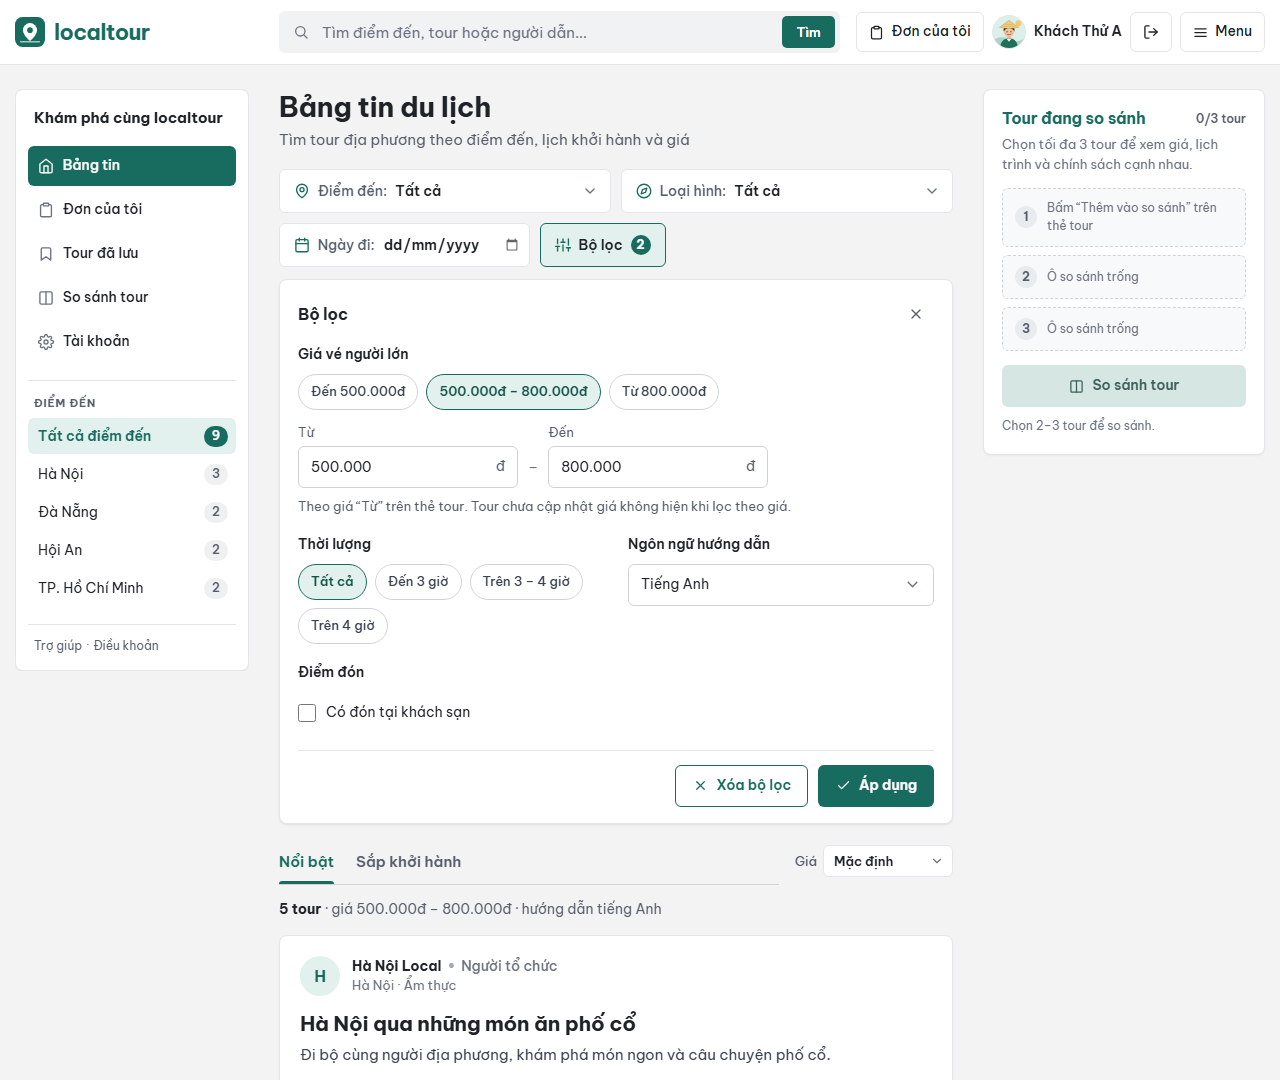
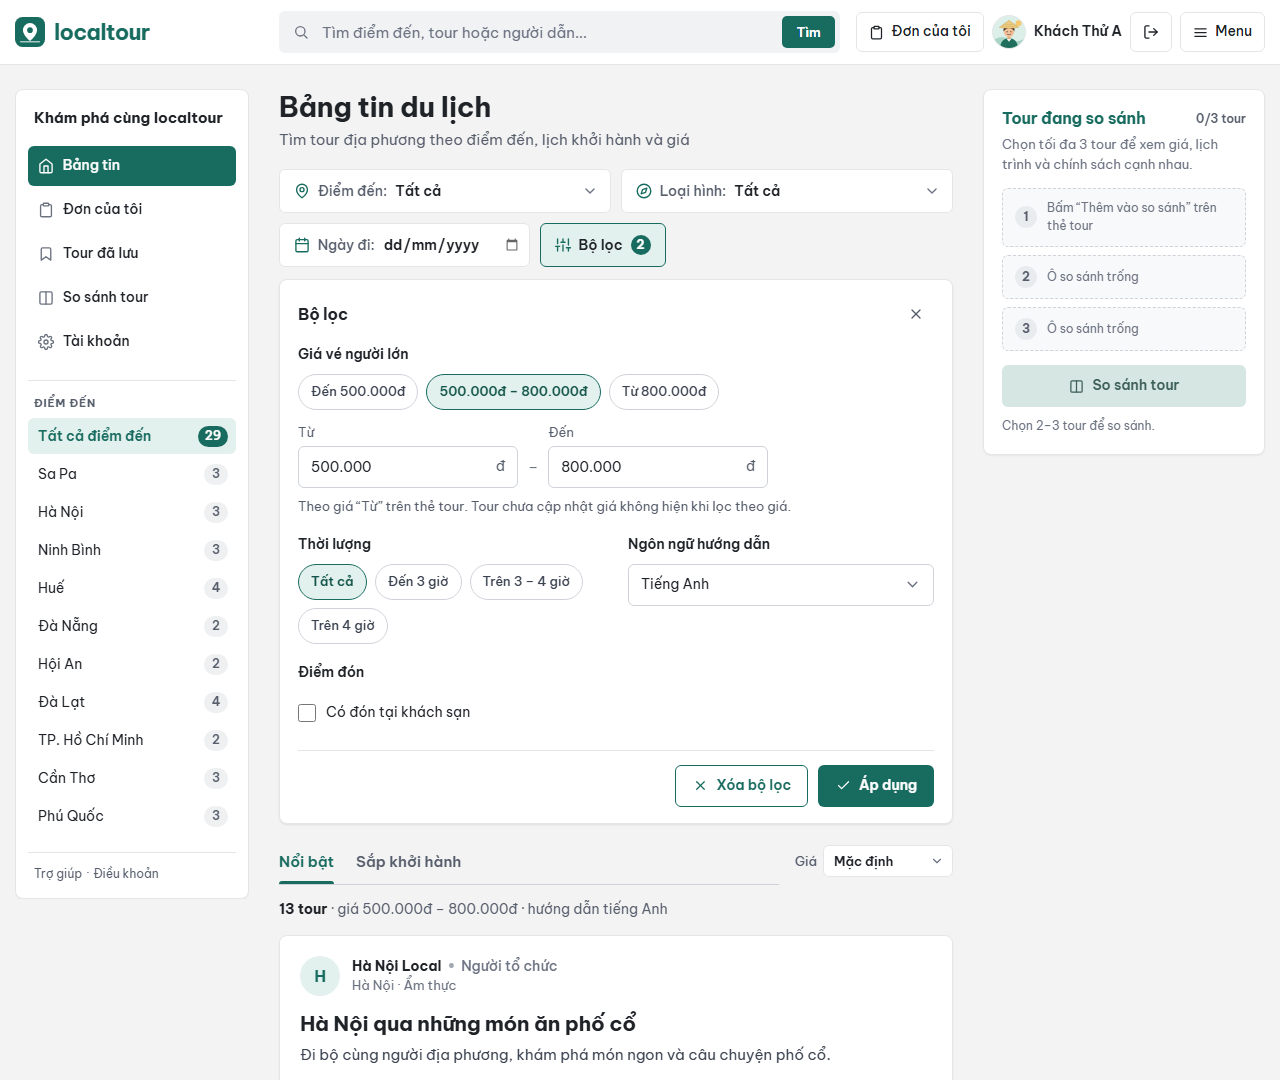
6.18: User Guide: các ô hồ sơ mới ở trang Tài khoản, ảnh chụp với 29 tour

diff --git a/docs/sprint6/03-huong-dan-su-dung.md b/docs/sprint6/03-huong-dan-su-dung.md
@@ -74,7 +74,7 @@ Quy tắc:
    - “Thời lượng”: Tất cả, Đến 3 giờ, Trên 3 – 4 giờ, Trên 4 giờ.
    - “Ngôn ngữ hướng dẫn”: chọn một ngôn ngữ.
    - “Điểm đón”: tích “Có đón tại khách sạn”.
-   - Bấm **Áp dụng**. Nút **Bộ lọc** hiện số bộ lọc đang chọn; dòng kết quả ghi số tour và các bộ lọc đang dùng, ví dụ “5 tour · giá 500.000đ – 800.000đ · hướng dẫn tiếng Anh”. Bấm **Xóa bộ lọc** trong bảng để bỏ mọi lựa chọn trong bảng và đóng bảng.
+   - Bấm **Áp dụng**. Nút **Bộ lọc** hiện số bộ lọc đang chọn; dòng kết quả ghi số tour và các bộ lọc đang dùng, ví dụ “13 tour · giá 500.000đ – 800.000đ · hướng dẫn tiếng Anh”. Bấm **Xóa bộ lọc** trong bảng để bỏ mọi lựa chọn trong bảng và đóng bảng.
 6. Các bộ lọc kết hợp với ô tìm kiếm, điểm đến, loại hình và sắp xếp, và được giữ trên địa chỉ trang: tải lại trang hoặc bấm quay lại vẫn giữ kết quả lọc.
 7. Sắp xếp: tab **Nổi bật** / **Sắp khởi hành**; ô “Giá”: Mặc định, Thấp đến cao, Cao đến thấp.
 8. Không có kết quả: trang ghi “Không có tour phù hợp” và “Thử bỏ bớt bộ lọc, chọn ngày khác hoặc đổi từ khóa nhé. Bấm “Xóa bộ lọc” để xem mọi tour.”, bấm **Xóa bộ lọc** để xem lại tất cả.
@@ -221,7 +221,7 @@ Mở bằng cách bấm ảnh đại diện hoặc tên ở góc phải, hoặc 
 
 1. **Ảnh đại diện:** bấm **Chọn ảnh**, chọn ảnh JPG, PNG hoặc WebP (tối đa 2 MB, mỗi cạnh từ 64 đến 4096 px), bấm **Lưu ảnh** → “Đã cập nhật ảnh đại diện.” Ảnh được cắt vuông ở giữa và hiện ở đầu trang, cạnh bình luận và đánh giá của bạn. Bấm **Xóa ảnh**, xác nhận “Xóa ảnh đại diện? Giao diện sẽ hiện chữ cái đầu tên của bạn.” → “Đã xóa ảnh đại diện.”
 2. Ảnh không hợp lệ báo “Chỉ nhận ảnh JPG, PNG hoặc WebP.”, “Ảnh tối đa 2 MB.” hoặc “Ảnh cần có cạnh từ 64 đến 4096 px.”; chưa chọn ảnh mà bấm **Lưu ảnh** thì báo “Vui lòng chọn ảnh.”
-3. **Thông tin cá nhân:** sửa “Họ tên” (2 đến 100 ký tự) và “Số điện thoại (không bắt buộc)”, bấm **Lưu thông tin** → “Đã lưu thông tin cá nhân.” Họ tên và số điện thoại được điền sẵn khi đặt tour. Email dùng để đăng nhập nên không đổi được.
+3. **Thông tin cá nhân:** sửa “Họ tên” (2 đến 100 ký tự) và “Số điện thoại (không bắt buộc)”. Các ô sau cũng không bắt buộc: “Số CCCD” (đúng 12 chữ số trên thẻ căn cước; chỉ bạn xem được số này), “Ngày sinh” (từ năm 1900, không ở tương lai; bạn cần đủ 10 tuổi), “Giới tính” (Nam, Nữ, Khác hoặc “Không nêu”), “Địa chỉ” (tối đa 255 ký tự). Bấm **Lưu thông tin** → “Đã lưu thông tin cá nhân.” Ô nào sai thì báo lỗi ngay dưới ô đó, ví dụ “Số CCCD gồm đúng 12 chữ số.”, “Ngày sinh không được ở tương lai.” hoặc “Bạn cần đủ 10 tuổi.”, và chưa thông tin nào được lưu. Họ tên và số điện thoại được điền sẵn khi đặt tour.
 4. **Đổi mật khẩu:** nhập “Mật khẩu hiện tại”, “Mật khẩu mới” (tối thiểu 8 ký tự), “Nhập lại mật khẩu”, bấm **Đổi mật khẩu** → “Đã đổi mật khẩu.” Vẫn đăng nhập sau khi đổi; lần sau đăng nhập bằng mật khẩu mới. Lỗi thường gặp: “Mật khẩu hiện tại không đúng.”, “Mật khẩu nhập lại không khớp.”, “Mật khẩu mới phải khác mật khẩu hiện tại.”
 5. Chưa đăng nhập mà mở `/tai-khoan` thì được đưa tới trang đăng nhập.
 
